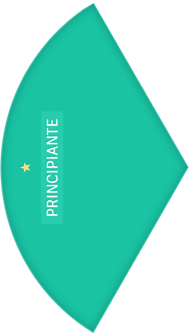
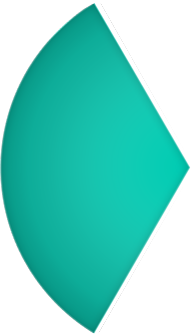
dial segments are now programatically generated

diff --git a/IrregularVerbs/images.h b/IrregularVerbs/images.h
@@ -4,47 +4,45 @@
 //
 // This file is automatically generated. Any changes will be overwritten the next time images.py is invoked.
 
-#define imgCheckmark64 (UIImage*)^{ UIImage *image = [UIImage imageNamed:@"checkmark_64"]; ZAssert(image, @"Image checkmark_64 not found"); return image; }()
+#define imgIcon114 (UIImage*)^{ UIImage *image = [UIImage imageNamed:@"icon114"]; ZAssert(image, @"Image icon114 not found"); return image; }()
 
-#define imgIcon57 (UIImage*)^{ UIImage *image = [UIImage imageNamed:@"icon57"]; ZAssert(image, @"Image icon57 not found"); return image; }()
+#define imgIconajustes (UIImage*)^{ UIImage *image = [UIImage imageNamed:@"iconAjustes"]; ZAssert(image, @"Image iconAjustes not found"); return image; }()
+
+#define imgHomebuttonwochevron (UIImage*)^{ UIImage *image = [UIImage imageNamed:@"homeButtonWOChevron"]; ZAssert(image, @"Image homeButtonWOChevron not found"); return image; }()
+
+#define imgCheckOkGrey (UIImage*)^{ UIImage *image = [UIImage imageNamed:@"check_ok_grey"]; ZAssert(image, @"Image check_ok_grey not found"); return image; }()
 
 #define imgHomeviewbg568h (UIImage*)^{ UIImage *image = [UIImage imageNamed:@"HomeViewbg-568h"]; ZAssert(image, @"Image HomeViewbg-568h not found"); return image; }()
 
 #define imgIconhistorial (UIImage*)^{ UIImage *image = [UIImage imageNamed:@"iconHistorial"]; ZAssert(image, @"Image iconHistorial not found"); return image; }()
 
-#define imgSectorimage2 (UIImage*)^{ UIImage *image = [UIImage imageNamed:@"sectorImage2"]; ZAssert(image, @"Image sectorImage2 not found"); return image; }()
-
-#define imgSectorimage1 (UIImage*)^{ UIImage *image = [UIImage imageNamed:@"sectorImage1"]; ZAssert(image, @"Image sectorImage1 not found"); return image; }()
-
-#define imgSectorimage0 (UIImage*)^{ UIImage *image = [UIImage imageNamed:@"sectorImage0"]; ZAssert(image, @"Image sectorImage0 not found"); return image; }()
-
-#define imgIcon114 (UIImage*)^{ UIImage *image = [UIImage imageNamed:@"icon114"]; ZAssert(image, @"Image icon114 not found"); return image; }()
-
-#define imgIconevaluar (UIImage*)^{ UIImage *image = [UIImage imageNamed:@"iconEvaluar"]; ZAssert(image, @"Image iconEvaluar not found"); return image; }()
-
-#define imgCheckOkGrey (UIImage*)^{ UIImage *image = [UIImage imageNamed:@"check_ok_grey"]; ZAssert(image, @"Image check_ok_grey not found"); return image; }()
+#define imgIconaprender (UIImage*)^{ UIImage *image = [UIImage imageNamed:@"iconAprender"]; ZAssert(image, @"Image iconAprender not found"); return image; }()
 
 #define imgCheckOkDarkGrey (UIImage*)^{ UIImage *image = [UIImage imageNamed:@"check_ok_dark_grey"]; ZAssert(image, @"Image check_ok_dark_grey not found"); return image; }()
 
-#define imgIconaprender (UIImage*)^{ UIImage *image = [UIImage imageNamed:@"iconAprender"]; ZAssert(image, @"Image iconAprender not found"); return image; }()
+#define imgCheckNokRed (UIImage*)^{ UIImage *image = [UIImage imageNamed:@"check_nok_red"]; ZAssert(image, @"Image check_nok_red not found"); return image; }()
+
+#define imgSectorimage0 (UIImage*)^{ UIImage *image = [UIImage imageNamed:@"sectorImage0"]; ZAssert(image, @"Image sectorImage0 not found"); return image; }()
+
+#define imgIcon57 (UIImage*)^{ UIImage *image = [UIImage imageNamed:@"icon57"]; ZAssert(image, @"Image icon57 not found"); return image; }()
 
 #define imgCheckNokDarkGrey (UIImage*)^{ UIImage *image = [UIImage imageNamed:@"check_nok_dark_grey"]; ZAssert(image, @"Image check_nok_dark_grey not found"); return image; }()
 
-#define imgCheckNokRed (UIImage*)^{ UIImage *image = [UIImage imageNamed:@"check_nok_red"]; ZAssert(image, @"Image check_nok_red not found"); return image; }()
-
-#define imgHomebuttonwochevron (UIImage*)^{ UIImage *image = [UIImage imageNamed:@"homeButtonWOChevron"]; ZAssert(image, @"Image homeButtonWOChevron not found"); return image; }()
-
-#define imgCheckOkGreen (UIImage*)^{ UIImage *image = [UIImage imageNamed:@"check_ok_green"]; ZAssert(image, @"Image check_ok_green not found"); return image; }()
-
 #define imgInfo (UIImage*)^{ UIImage *image = [UIImage imageNamed:@"info"]; ZAssert(image, @"Image info not found"); return image; }()
-
-#define imgIconajustes (UIImage*)^{ UIImage *image = [UIImage imageNamed:@"iconAjustes"]; ZAssert(image, @"Image iconAjustes not found"); return image; }()
-
-#define imgWhiteCircularBg1 (UIImage*)^{ UIImage *image = [UIImage imageNamed:@"white-circular-bg1"]; ZAssert(image, @"Image white-circular-bg1 not found"); return image; }()
 
 #define imgHomebutton (UIImage*)^{ UIImage *image = [UIImage imageNamed:@"homeButton"]; ZAssert(image, @"Image homeButton not found"); return image; }()
 
+#define imgIconevaluar (UIImage*)^{ UIImage *image = [UIImage imageNamed:@"iconEvaluar"]; ZAssert(image, @"Image iconEvaluar not found"); return image; }()
+
+#define imgCheckmark64 (UIImage*)^{ UIImage *image = [UIImage imageNamed:@"checkmark_64"]; ZAssert(image, @"Image checkmark_64 not found"); return image; }()
+
+#define imgWhiteCircularBg1 (UIImage*)^{ UIImage *image = [UIImage imageNamed:@"white-circular-bg1"]; ZAssert(image, @"Image white-circular-bg1 not found"); return image; }()
+
 #define imgCheckNokGrey (UIImage*)^{ UIImage *image = [UIImage imageNamed:@"check_nok_grey"]; ZAssert(image, @"Image check_nok_grey not found"); return image; }()
 
+#define imgStar (UIImage*)^{ UIImage *image = [UIImage imageNamed:@"star"]; ZAssert(image, @"Image star not found"); return image; }()
+
 #define imgHomeviewbg (UIImage*)^{ UIImage *image = [UIImage imageNamed:@"HomeViewbg"]; ZAssert(image, @"Image HomeViewbg not found"); return image; }()
+
+#define imgCheckOkGreen (UIImage*)^{ UIImage *image = [UIImage imageNamed:@"check_ok_green"]; ZAssert(image, @"Image check_ok_green not found"); return image; }()
 

diff --git a/IrregularVerbs/LevelDialSelectorControl.m b/IrregularVerbs/LevelDialSelectorControl.m
@@ -147,23 +147,37 @@ static float deltaAngle;
     int labelWidth= 130;
     int labelHeight= 30;
     CGFloat angleSize = 2*M_PI/numberOfSections;
+ 
     for (int i = 0; i < numberOfSections; i++) {
         // 4 - Create image view
         int absIndex = (i+currentSector)%numberOfSections ;
-        
-        UIImageView *im = [[UIImageView alloc] initWithImage:[UIImage imageNamed:[NSString stringWithFormat:@"sectorImage%i.png",absIndex ]]];
+ 
+        UIImageView *im = [[UIImageView alloc] initWithImage: imgSectorimage0];
         UILabel *lbltxt = [[UILabel alloc] init];
+       
         
         NSString *txt = [NSString stringWithFormat:@"LevelLabel_%i",absIndex];
         [lbltxt setText:NSLocalizedString(txt,nil) ];
         [lbltxt setFont:[UIFont fontWithName:@"Signika" size:16]];
         [lbltxt setBackgroundColor:[UIColor appTintColor]];
+      
         [lbltxt setTextColor:[UIColor whiteColor]];
         [lbltxt setShadowColor:[UIColor lightGrayColor]];
         [lbltxt setShadowOffset:CGSizeMake(1.0, 1.0)];
         [lbltxt setAccessibilityHint:[NSString stringWithFormat:@"%@ %@",NSLocalizedString(txt,nil) , NSLocalizedString(@"accesibility_dialselectorhint",nil)]];
 
         [im addSubview:lbltxt];
+        
+        int starSize = 12;
+      
+        for(int j=0;j<absIndex+1;j++){
+            UIImageView *star = [[UIImageView alloc] initWithImage:imgStar];
+            [im addSubview:star];
+            [star.layer setPosition:CGPointMake(25, im.bounds.size.height/2.0 + j*starSize - starSize*(absIndex+1)/2 +starSize/2) ];
+        }
+        
+        
+        
         
         im.layer.anchorPoint = CGPointMake(1.0f, 0.5f);
        
@@ -172,6 +186,10 @@ static float deltaAngle;
         
         [[lbltxt layer] setAnchorPoint:CGPointMake(0.0f, 1.0f)];
         [[lbltxt layer] setPosition:CGPointMake(64,im.bounds.size.height/2.0+labelWidth/2.0)];
+        
+        
+        
+        
         [lbltxt setBounds:CGRectMake(0, 0, labelWidth, labelHeight)];
         lbltxt.textAlignment = NSTextAlignmentCenter;
        
